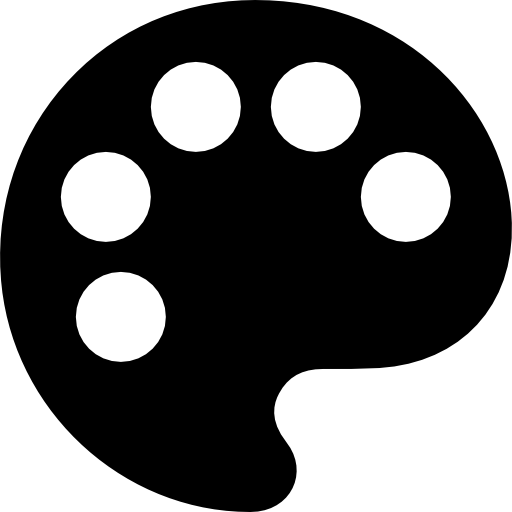
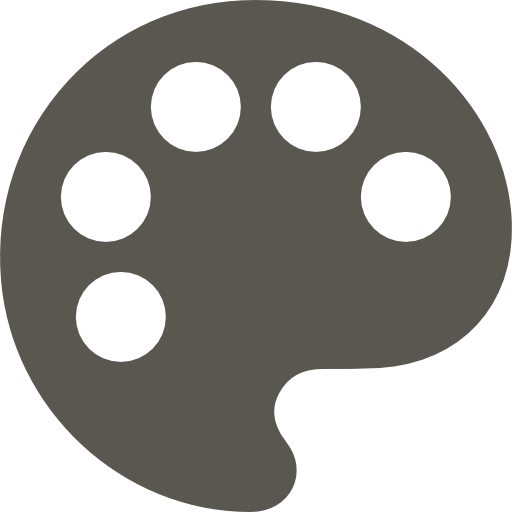
Add files via upload

diff --git a/styles/all.css b/styles/all.css
@@ -685,8 +685,8 @@ to{transform:translateX(0);opacity:1;}
 .casual-nick-edit{background:none;border:none;color:var(--muted);cursor:pointer;padding:2px;transition:var(--t);display:flex;align-items:center}
 .casual-nick-edit:hover{color:var(--accent)}
 .sa-color-btn:hover{color:var(--accent)}
-.sa-color-icon{display:block;width:16px;height:16px;object-fit:contain;filter:invert(86%) opacity(.72);transition:var(--t);pointer-events:none}
-.sa-color-btn:hover .sa-color-icon{filter:invert(92%) sepia(17%) saturate(631%) hue-rotate(358deg) brightness(94%) contrast(86%);opacity:1}
+.sa-color-icon{display:block;width:16px;height:16px;object-fit:contain;filter:none;opacity:1;transition:var(--t);pointer-events:none}
+.sa-color-btn:hover .sa-color-icon{filter:none;opacity:1;transform:scale(1.06)}
 .sa-color-popup{display:none;position:absolute;bottom:calc(100% + 6px);right:0;background:var(--s2);border:1px solid var(--border2);border-radius:8px;box-shadow:0 4px 16px rgba(0,0,0,.4);z-index:210;padding:10px;width:180px}
 .sa-color-popup.open{display:block}
 .sa-color-popup-title{font-size:10px;color:var(--muted);margin-bottom:8px;letter-spacing:.05em}
